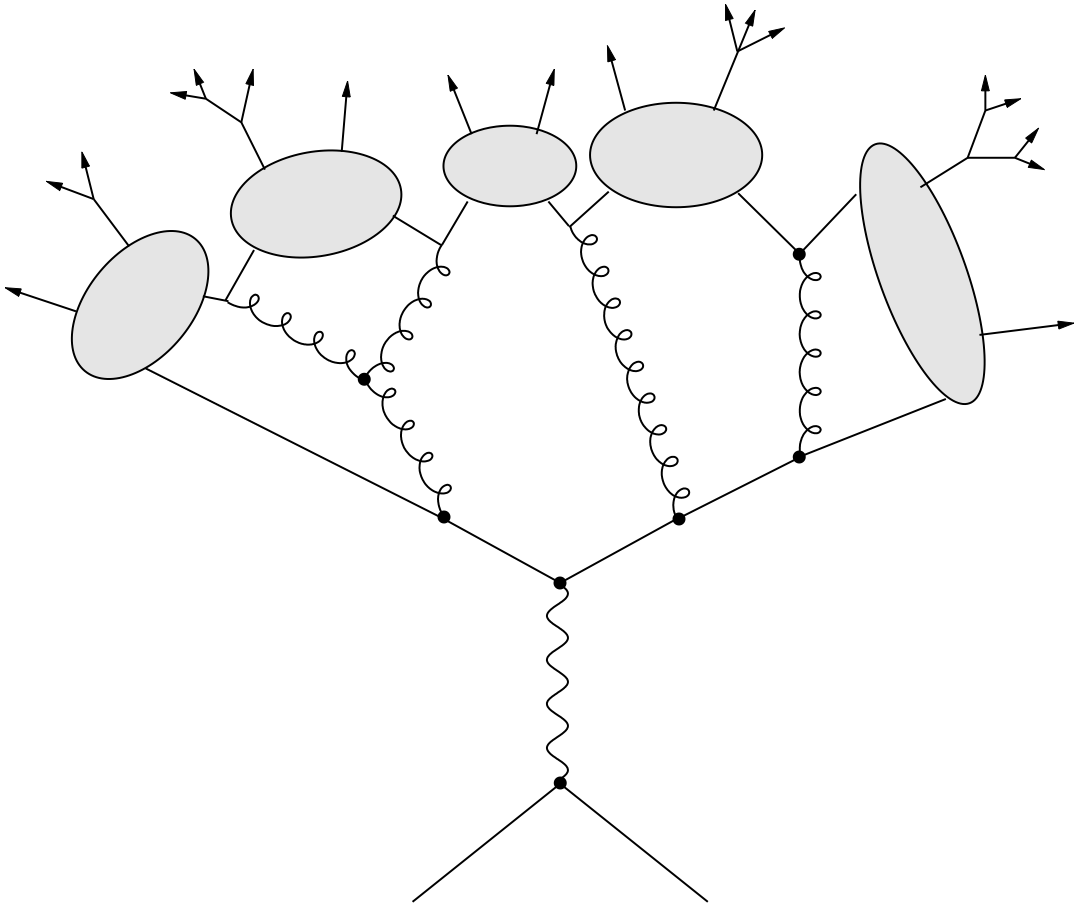
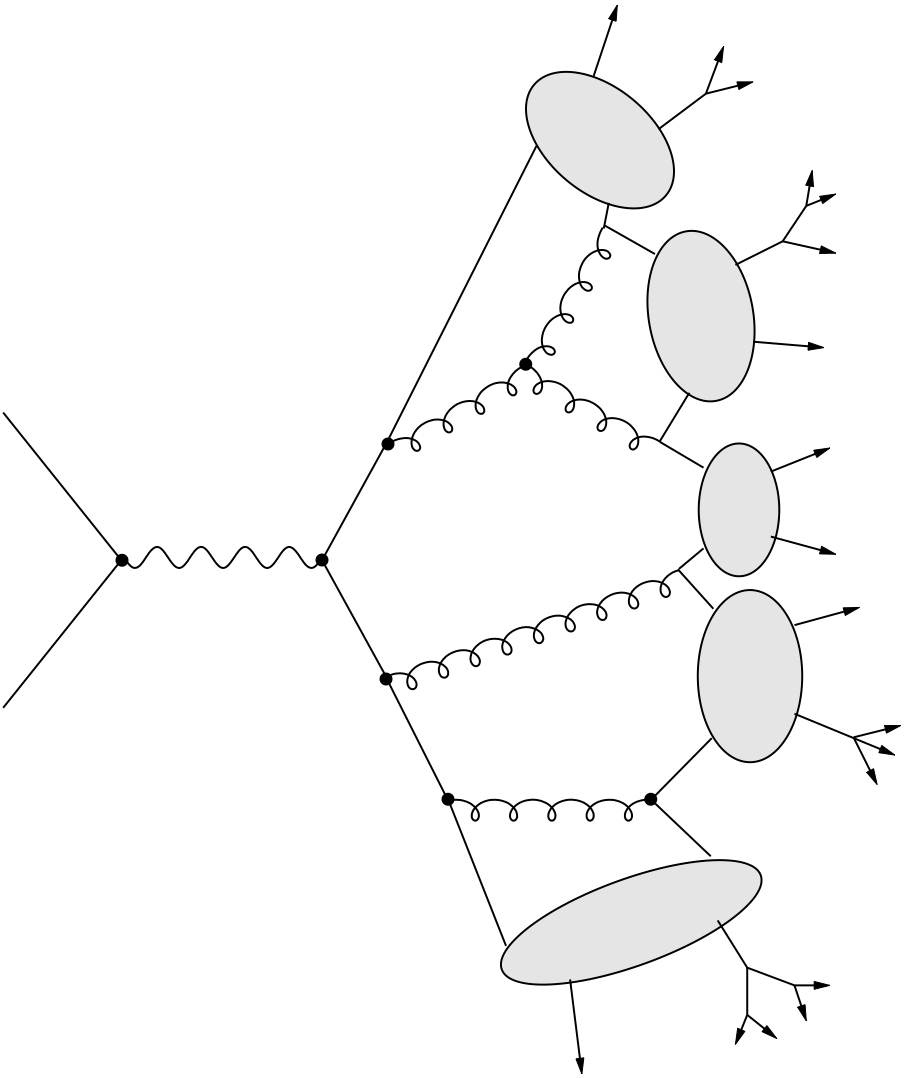
rotate figures

diff --git a/chap/mc_simul.tex b/chap/mc_simul.tex
@@ -226,18 +226,17 @@ The fragmentation function determines the probability of a given hadron to carry
 \begin{center}
   \subfigure[]{
     \label{fig:string_model}
-    \includegraphics[width=0.43\textwidth]{figures/simul/Figures_MonteCarlo_string_had}
+    \includegraphics[width=0.35\textwidth]{figures/simul/Figures_MonteCarlo_string_had.pdf}
   }
     \subfigure[]{
     \label{fig:cluster_model}
-    \includegraphics[width=0.43\textwidth]{figures/simul/Figures_MonteCarlo_clustr_had}
+    \includegraphics[width=0.35\textwidth]{figures/simul/Figures_MonteCarlo_clustr_had.pdf}
   }
 \end{center}
 % chiara note: check reference!
  \caption{Schematic view of string hadronization model \subref{fig:string_model} and cluster hadronization model \subref{fig:cluster_model}. Figure from Ref. \cite{Isildak:2013kfa}.}
   \label{fig:had_model}
 \end{figure}
-
 
 
 These two hadronization models have been developed in the 1980's, and since then there has been no fundamental progress in the theoretical understanding of hadronization. 
